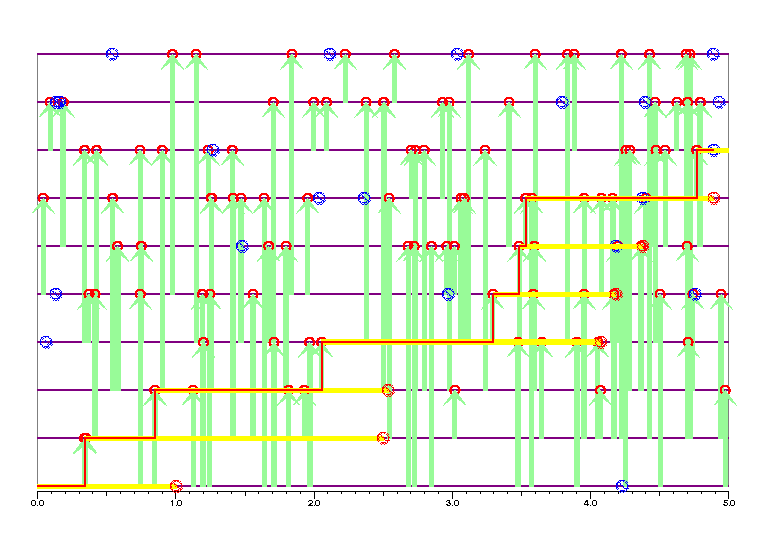
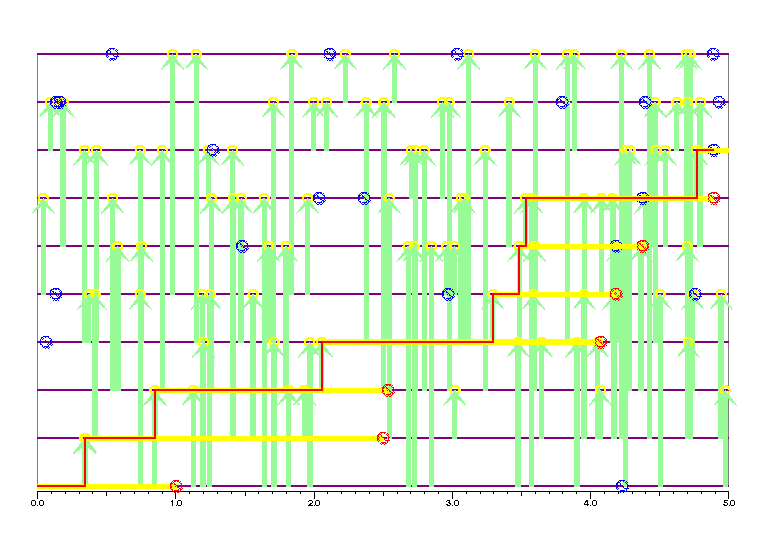
Minor changes.

diff --git a/python/epidemic.py b/python/epidemic.py
@@ -151,6 +151,14 @@ class FreeEpidemic(object):
       (0.5, (0, 2, 1)),
       (1, (0, 1, 2)),
       (1.6, (0, 0, 3))]
+     >>> print(epidemic(pretty=True))
+     Time    S, I, R
+     0.00   (2, 1, 0)
+     0.20   (1, 2, 0)
+     0.40   (0, 3, 0)
+     0.50   (0, 2, 1)
+     1.00   (0, 1, 2)
+     1.60   (0, 0, 3)
 
     """
     def __init__(self, innovations=None):
@@ -185,7 +193,7 @@ class FreeEpidemic(object):
         # Return list of incidents sorted by time.
         return sorted(list(chain(rem, inf)))
 
-    def __call__(self, infe=1):
+    def __call__(self, infe=1, pretty=False):
         """
         Returns a sequence of changes of state of an SIR epidemic driven by
         `FreeEpidemic` innovations. Note that no conditioning is imposed here!
@@ -216,7 +224,12 @@ class FreeEpidemic(object):
                     infe -= 1
                     remo += 1
                     trajectory.append((ttt, (susc, infe, remo)))
-        return trajectory
+        if pretty:
+            summary = ["Time    S, I, R"]
+            summary.extend(["%4.2f   %s" % (ins, str(ev)) for ins, ev in trajectory])
+            return '\n'.join(summary)
+        else:
+            return trajectory
 
 
 # \section{Functions}

diff --git a/python/static.py b/python/static.py
@@ -281,7 +281,7 @@ def main(opt, arguments):
     c.itemconfig('potential_removal', foreground='blue')
     c.itemconfig('removal', foreground='red')
     c.itemconfig('potential_infection', width=6, fill='palegreen', arrow=tk.LAST, arrowshape=(8, 20, 12))
-    c.itemconfig('infection_incident', outline='red', width=2)
+    c.itemconfig('infection_incident', outline='yellow', width=2)
     c.itemconfig('infectious', width=6, fill='yellow')
     c.itemconfig('epidemic', width=2, fill='red')
 
